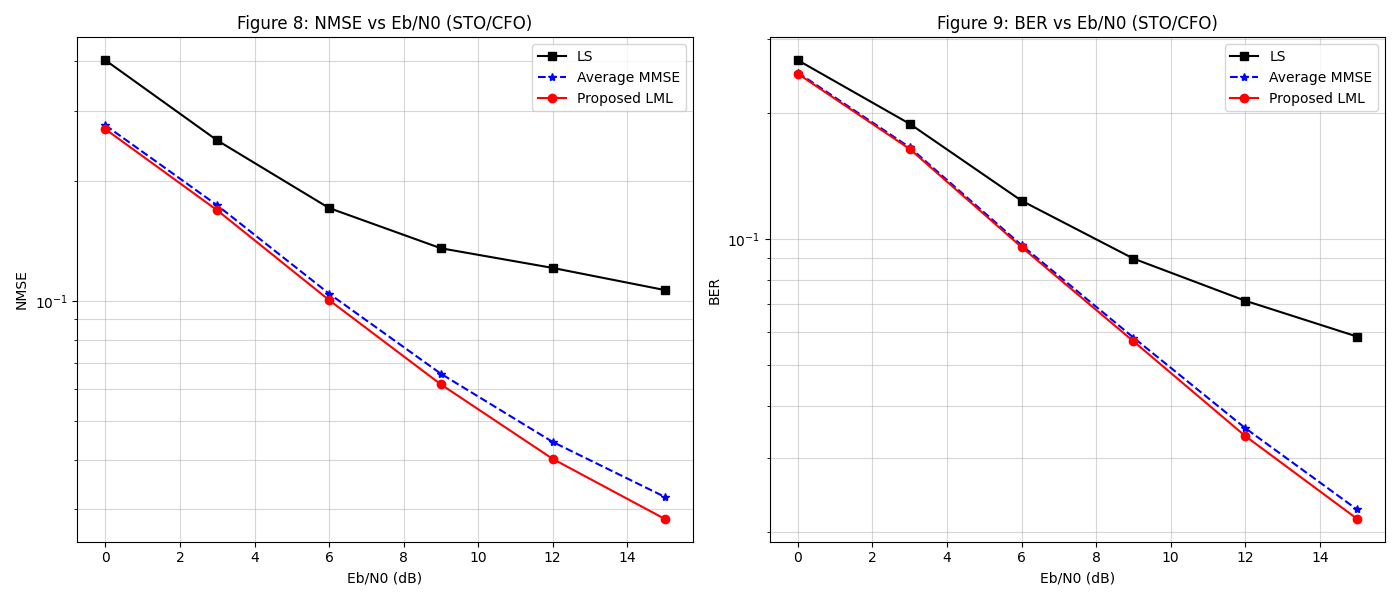
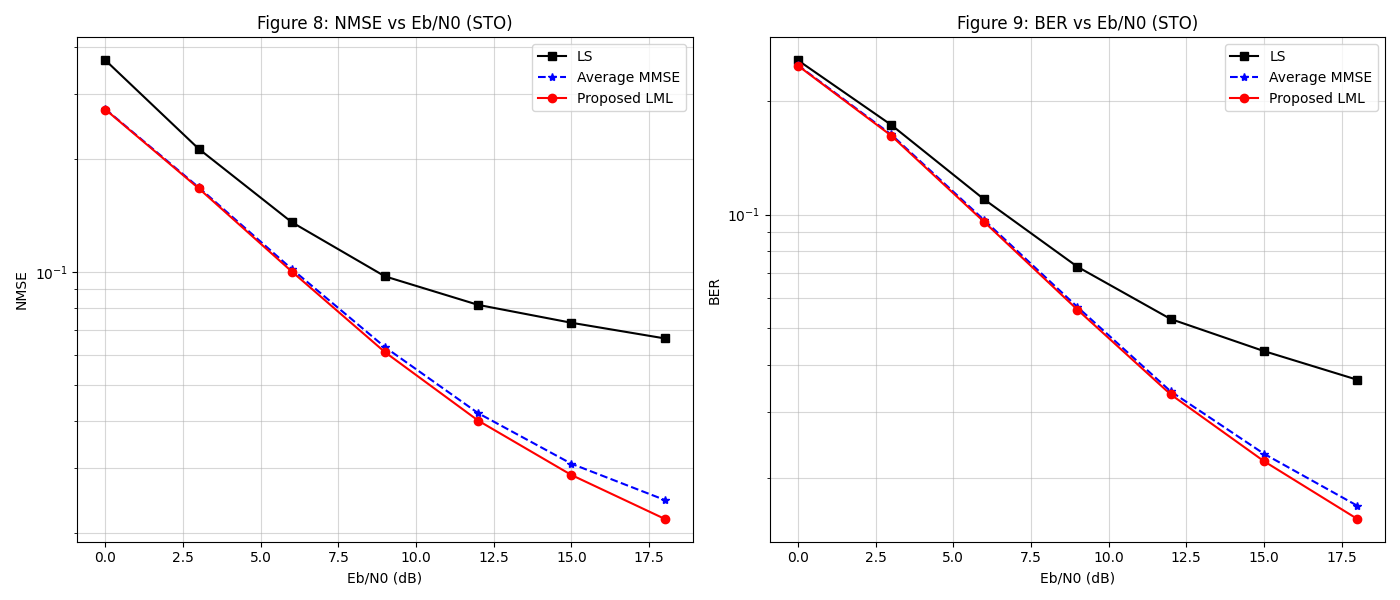
modify_result

diff --git a/main.py b/main.py
@@ -94,7 +94,8 @@ def plot_fig8_9():
     ax1.set_ylabel('NMSE')
     ax1.grid(True, which="both", ls="-", alpha=0.5)
     ax1.legend()
-    ax1.set_title('Figure 8: NMSE vs Eb/N0 (STO/CFO)')
+    # ax1.set_title('Figure 8: NMSE vs Eb/N0 (STO)')
+    ax1.set_title('Figure 8: NMSE vs Eb/N0 (CFO)')
 
     # --- Plot 2: BER (Fig 9) ---
     ax2.semilogy(ebn0_list, res_ber['ls'], 'k-s', label='LS')
@@ -105,7 +106,8 @@ def plot_fig8_9():
     ax2.set_ylabel('BER')
     ax2.grid(True, which="both", ls="-", alpha=0.5)
     ax2.legend()
-    ax2.set_title('Figure 9: BER vs Eb/N0 (STO/CFO)')
+    # ax2.set_title('Figure 9: BER vs Eb/N0 (STO)')
+    ax2.set_title('Figure 9: BER vs Eb/N0 (CFO)')
 
     plt.tight_layout()
     

diff --git a/sim.py b/sim.py
@@ -239,11 +239,11 @@ def run_simulation_fig8_9():
     
     # --- 模擬參數 ---
     # 橫軸改為 Eb/N0
-    ebn0_db_list = np.arange(0, 16, 3) # 0 to 30 dB (Eb/N0)
+    ebn0_db_list = np.arange(0, 19, 3) # 0 to 30 dB (Eb/N0)
     
     num_monte_carlo = 1000
-    sto_val = 3       # STO samples
-    cfo_val = 0.0    # Normalized CFO
+    sto_val = 0       # STO samples
+    cfo_val = 0.05    # Normalized CFO
     
     # --- 初始化系統 ---
     sys = OFDMSystem()
